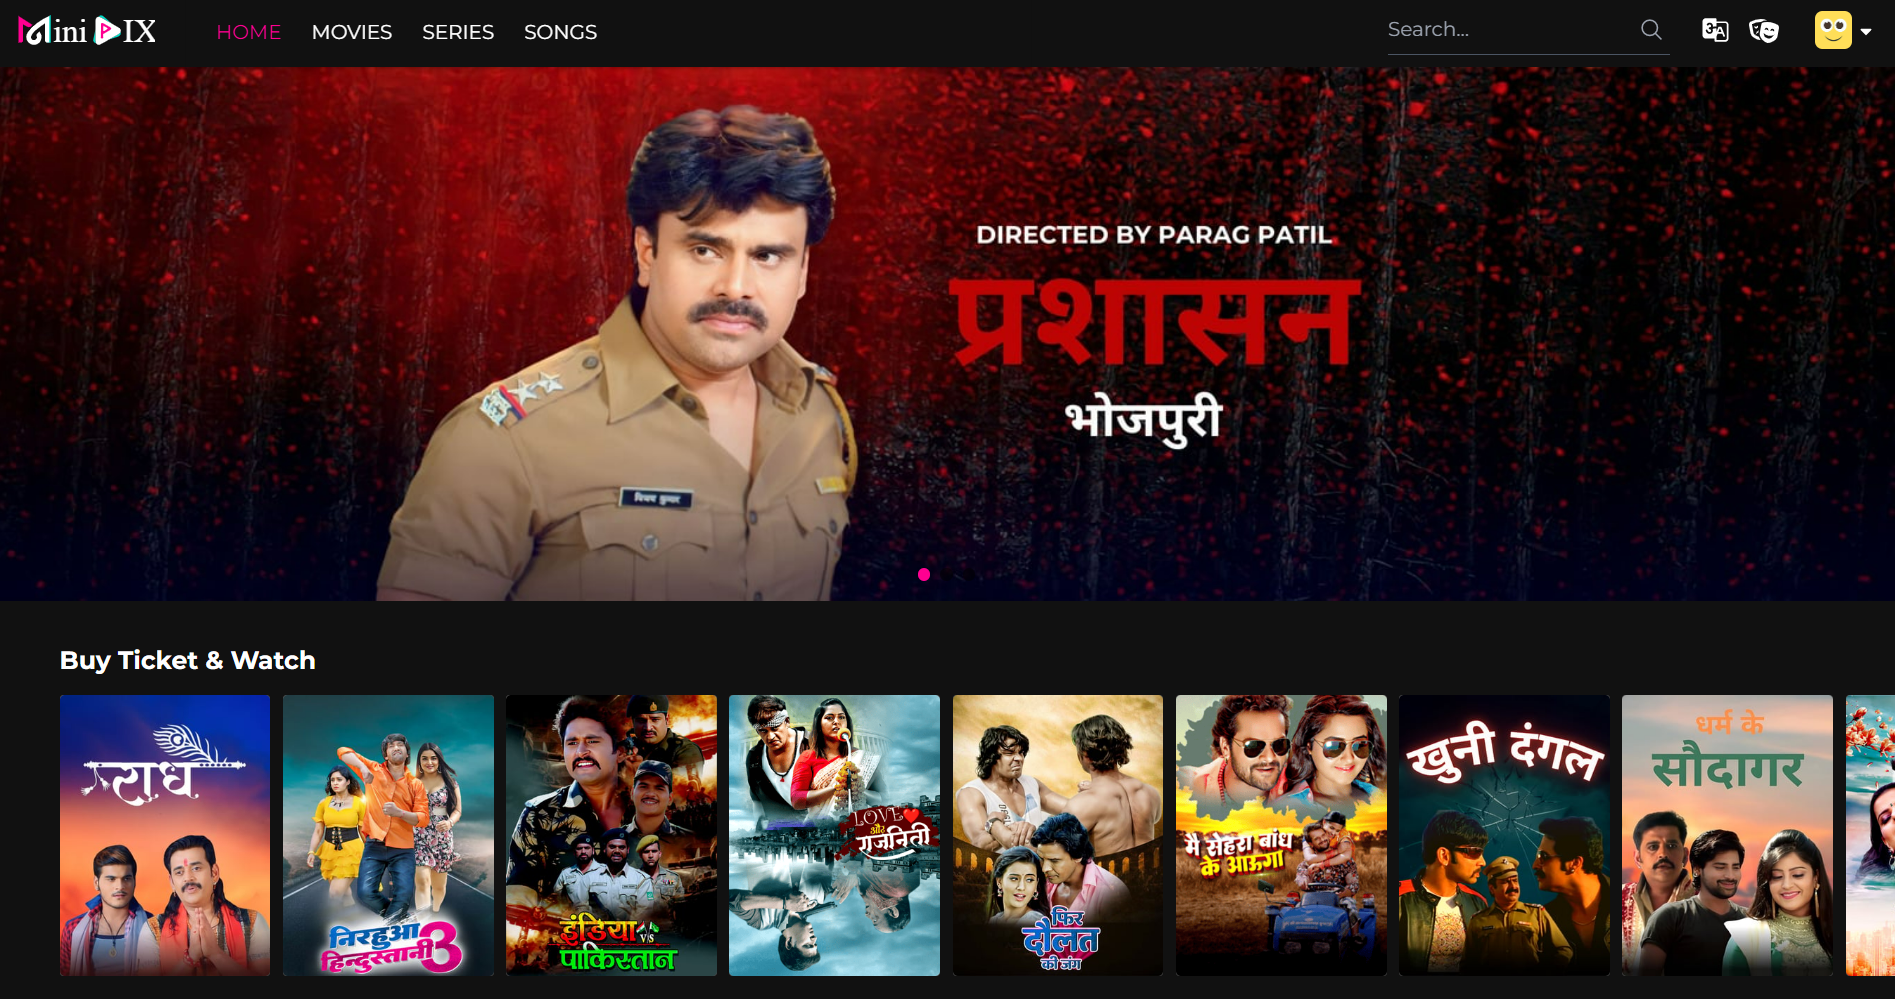
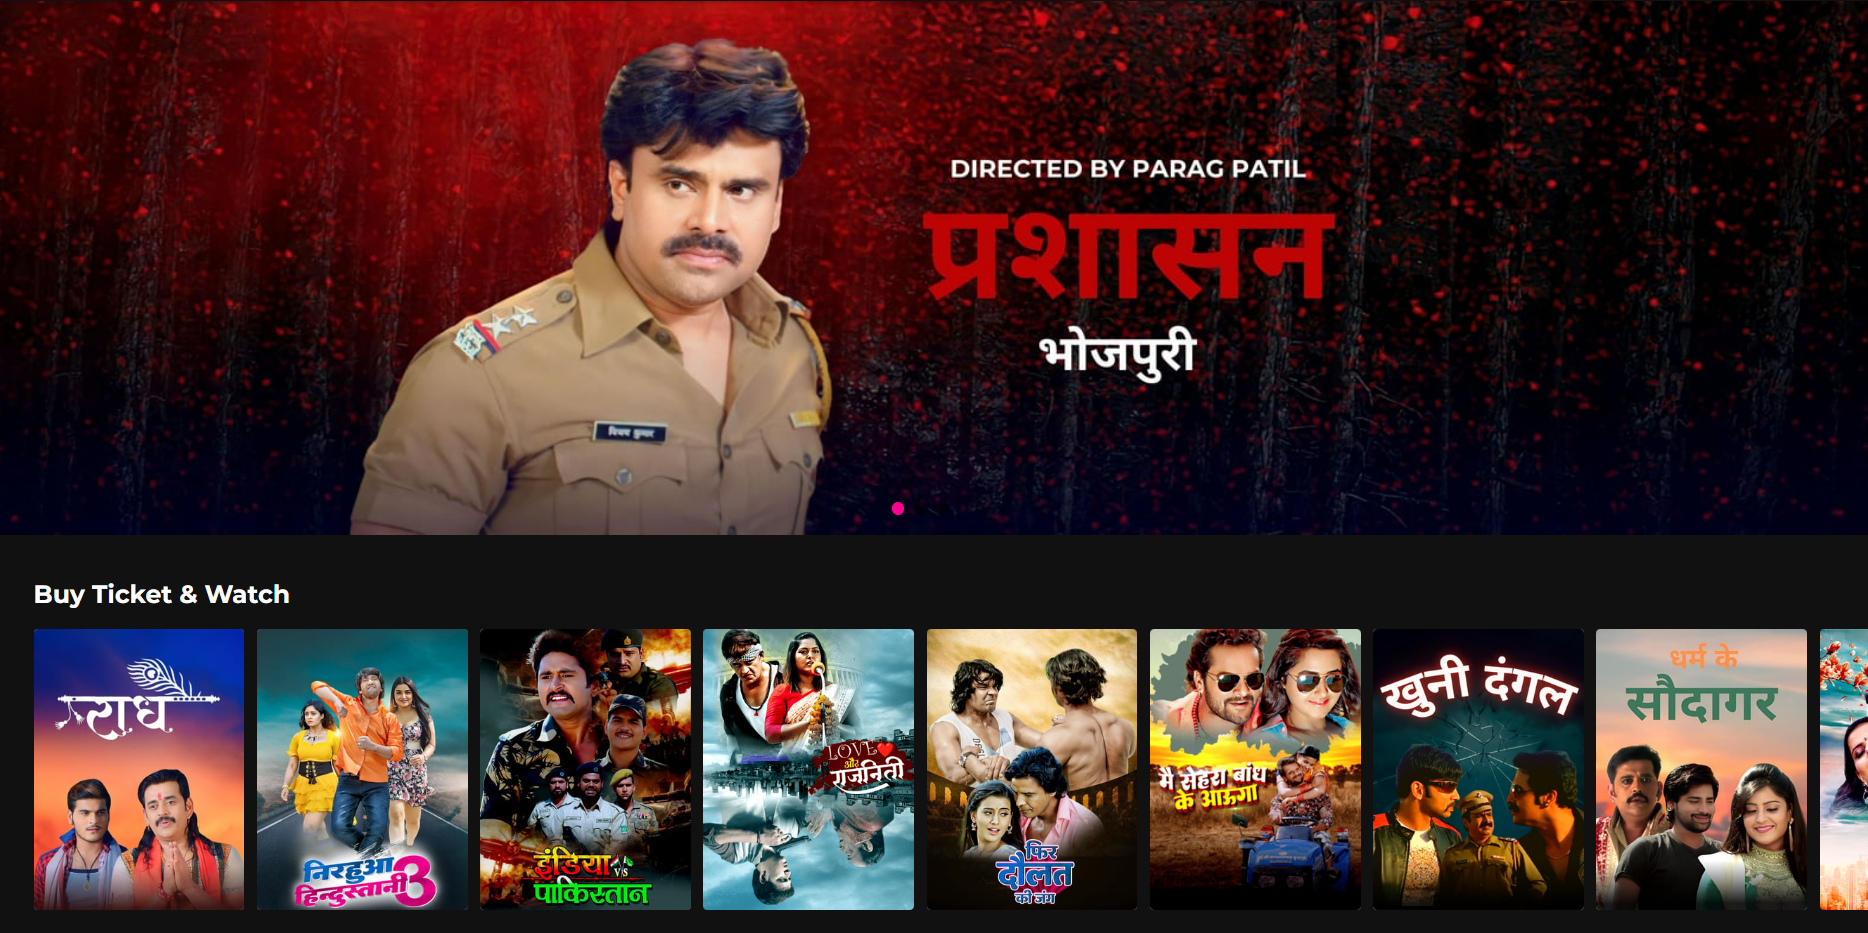
UI Updated 3

diff --git a/pages/index.js b/pages/index.js
@@ -29,14 +29,41 @@ const Home = ({
   const showPosts = pagination;
 
   return (
-    <Base>
+    <Base> 
+  <section className="background-radial-gradient mb-2 text-center lg:text-left ">
+    <div className="relative overflow-hidden bg-cover bg-no-repeat bg-[50%] bg-[url('/images/banner-author.png')] h-[650px]">
+      <div
+        className="absolute top-0 right-0 bottom-0 left-0 h-full w-full overflow-hidden bg-[hsla(0,0%,0%,0.75)] bg-fixed">
+        <div className="flex h-full items-end justify-center">
+          <div className="max-w-[800px] px-6 text-center text-white md:py-0 md:px-12">
+            <h2 className="text-white mb-6 text-4xl font-bold leading-tight tracking-tight md:text-6xl xl:text-7xl">
+              Are you ready <br /><span>for Entertainment !</span>
+            </h2>
+            <p className="text-lg">
+            Our Services are built to be for Every Common Person’s ENTERTAINMENT reach with a catalogue of Movies, Series, Short Films and Songs.
+            </p>
+            <Link
+                    className="btn btn-primary mt-6 mb-12"
+                    href="/"
+                    >
+                   Watch Now
+                  </Link>
+          </div>
+        </div>
+      </div>
+    </div>
+  </section>
+  
+ 
+
+
       {/* Banner */}
-      <section className="section banner relative pb-0">
+      {/* <section className="section banner relative pb-0">
         <ImageFallback
           className="absolute bottom-0 left-0 z-[-1] w-full"
           src={"/images/banner-bg-shape.svg"}
           width={1905}
-          height={295}
+          height={395}
           alt="banner-shape"
           priority
         />
@@ -73,7 +100,7 @@ const Home = ({
             )}
           </div>
         </div>
-      </section>
+      </section> */}
 
       {/* Home main */}
       <section className="section">
@@ -84,7 +111,7 @@ const Home = ({
               {featured_posts.enable && (
                 <div className="section">
                   {markdownify(featured_posts.title, "h2", "section-title")}
-                  <div className="rounded border border-border p-6 dark:border-darkmode-border">
+                  <div className="p-6 dark:border-darkmode-border">
                     <div className="row">
                       <div className="md:col-6">
                         <Post post={featuredPosts[0]} />
@@ -96,7 +123,7 @@ const Home = ({
                             <div
                               className={`mb-6 flex items-center pb-6 ${
                                 i !== arr.length - 1 &&
-                                "border-b border-border dark:border-darkmode-border"
+                                "dark:border-darkmode-border"
                               }`}
                               key={`key-${i}`}
                             >
@@ -148,7 +175,7 @@ const Home = ({
               {recent_posts.enable && (
                 <div className="section pt-0">
                   {markdownify(recent_posts.title, "h2", "section-title")}
-                  <div className="rounded border border-border px-6 pt-6 dark:border-darkmode-border">
+                  <div className="px-6 pt-6 dark:border-darkmode-border">
                     <div className="row">
                       {sortPostByDate.slice(0, showPosts).map((post) => (
                         <div className="mb-8 md:col-6" key={post.slug}>
@@ -167,7 +194,7 @@ const Home = ({
             </div>
             {/* sidebar */}
             <Sidebar
-              className={"lg:mt-[9.5rem]"}
+              className={"lg:mt-[5.7rem]"}
               posts={posts}
               categories={categories}
             />

diff --git a/styles/components.scss b/styles/components.scss
@@ -5,7 +5,7 @@
 
 // container
 .container {
-  @apply mx-auto max-w-[1320px];
+  @apply mx-auto max-w-[1590px];
 }
 
 // form style
